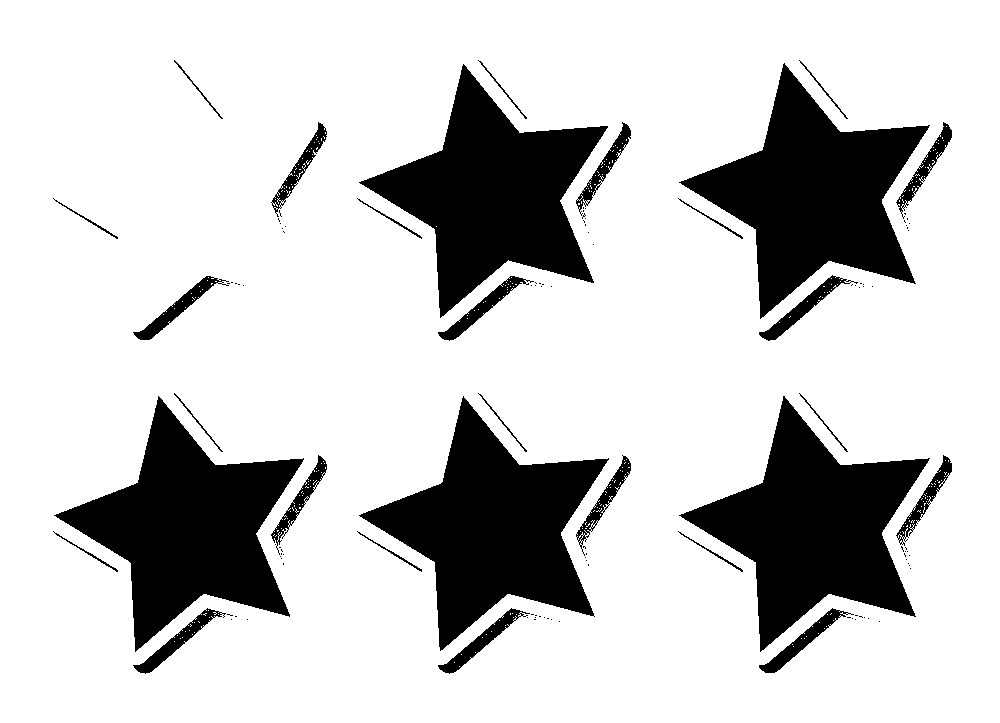
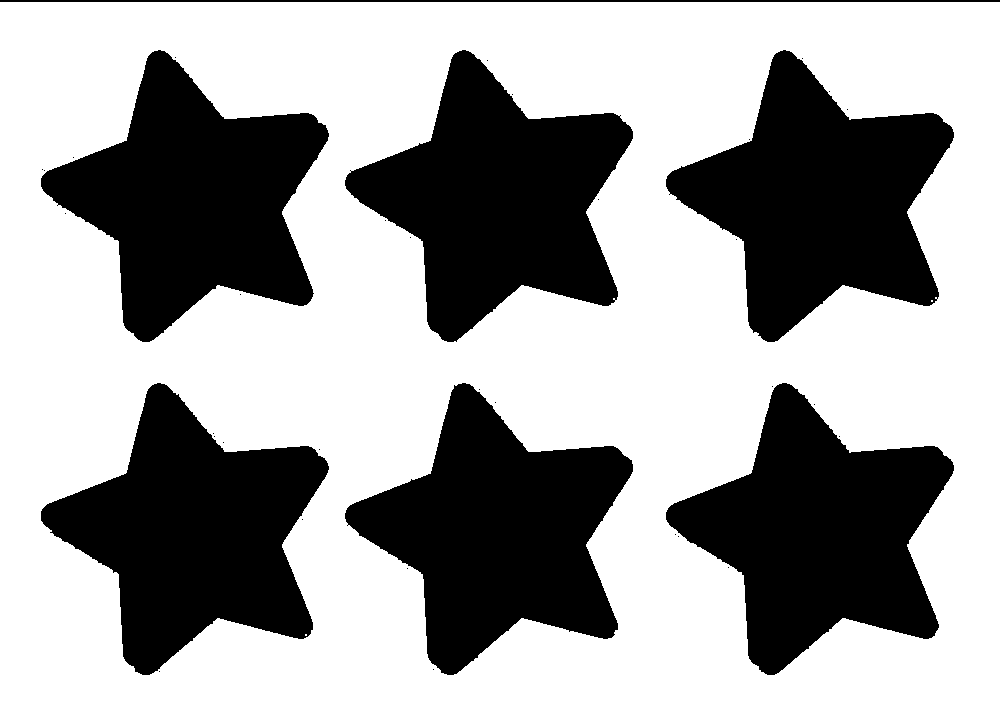
add ex1_e

diff --git a/src/test.py b/src/test.py
@@ -1,23 +1,23 @@
-# import cv2 as cv
-# import numpy as np
+import cv2 as cv
+import numpy as np
 
-# def nothing(x):pass
+def nothing(x):pass
 
-# cap = cv.VideoCapture(0)
-# cv.namedWindow('videoUI', cv.WINDOW_NORMAL)
-# cv.createTrackbar('T','videoUI',0,255,nothing)
+cap = cv.VideoCapture(0)
+cv.namedWindow('videoUI', cv.WINDOW_NORMAL)
+cv.createTrackbar('T','videoUI',0,255,nothing)
 
-# while(True):
-#     img = cv.imread("src/image.png")
-#     gray = cv.cvtColor(img, cv.COLOR_BGR2GRAY)
-#     ret, frame = cap.read()
-#     thresh = cv.getTrackbarPos('T','videoUI');
-#     vid_bw = cv.threshold(gray, thresh, 255, cv.THRESH_BINARY)[1]
+while(True):
+    img = cv.imread("src/image.png")
+    gray = cv.cvtColor(img, cv.COLOR_BGR2GRAY)
+    ret, frame = cap.read()
+    thresh = cv.getTrackbarPos('T','videoUI')
+    vid_bw = cv.threshold(gray, thresh, 255, cv.THRESH_BINARY_INV)[1]
 
-#     cv.imshow('videoUI',cv.flip(vid_bw,1))
+    cv.imshow('videoUI',cv.flip(vid_bw,1))
 
-#     if cv.waitKey(1) & 0xFF == ord('q'):
-#         break
+    if cv.waitKey(1) & 0xFF == ord('q'):
+        break
 
-# cap.release()
-# cv.destroyAllWindows()
+cap.release()
+cv.destroyAllWindows()

diff --git a/src/ex1_e.py b/src/ex1_e.py
@@ -1,5 +1,6 @@
 import cv2
 import insert
+import numpy as np
 
 imagePath = r"./src/image.png"
 
@@ -10,10 +11,20 @@ def toBinaryImg():
   gray = cv2.cvtColor(image, cv2.COLOR_BGR2GRAY)
  
 	
-  (thresh, blackAndWhiteImage) = cv2.threshold(gray, 0, 255, cv2.THRESH_BINARY | cv2.THRESH_OTSU)
+  (thresh, th1) = cv2.threshold(gray, 190, 255, cv2.THRESH_TOZERO_INV)
+  
 
-  # result= cv2.bitwise_and(gray, gray, mask=binary)
-  return blackAndWhiteImage
+  (thresh, th2) = cv2.threshold(th1, 170, 255, cv2.THRESH_BINARY)
+  
+
+  (thresh, th3) = cv2.threshold(th2, 10, 255, cv2.THRESH_BINARY_INV)
+  
+
+  kernel = np.ones((2,2), np.uint8)
+  closing = cv2.morphologyEx(th3, cv2.MORPH_CLOSE, kernel)
+
+  (thresh, th4) = cv2.threshold(closing, 10, 255, cv2.THRESH_BINARY_INV)
+  return th4
   
 img = toBinaryImg()
 
@@ -21,7 +32,5 @@ insert.insertID(img,"51900640-51900777")
 filename = "./output/ex1_e/"+"image"+".png"
 cv2.imwrite(filename,img)
 
-#show image
-cv2.imshow("img", img)
 cv2.waitKey(0)
-cv2.destroyAllWindows()
+
